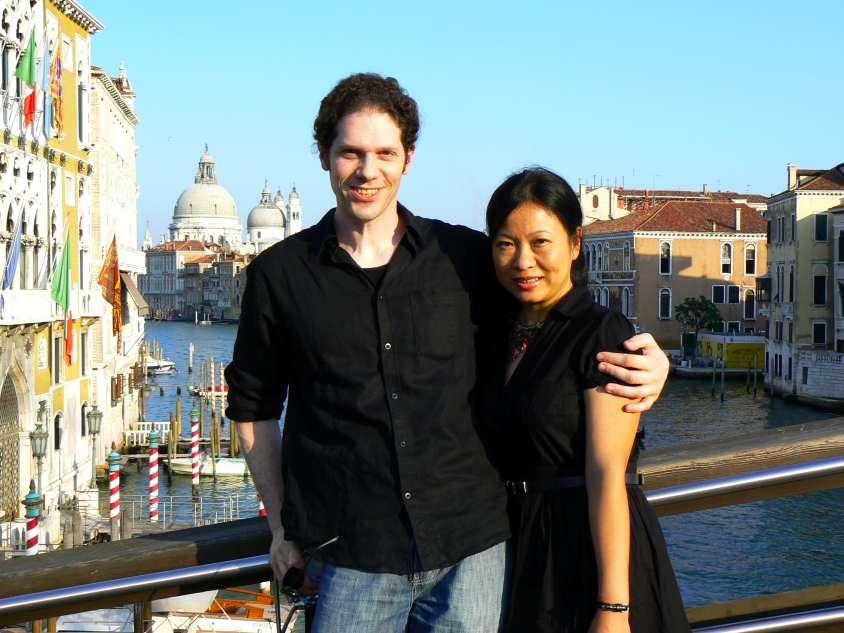
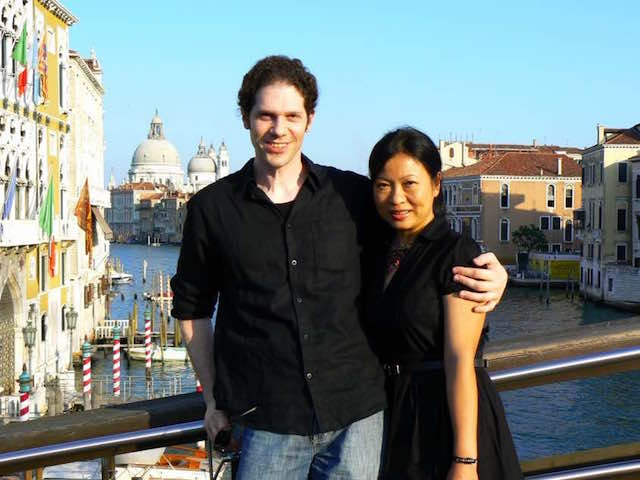
broken photo links

diff --git a/Travel.html b/Travel.html
@@ -73,11 +73,16 @@
 </nav>
 
 
+<!-- <div class="row">
+    <div class="col-sm-12 text-left"><img class="img-circle" class="responsive" src="Us in venice.jpg" ></div>
+  </div> -->
+
     <div class="header">
-      <center><img width="450" style="border:10px solid black; padding:15px; box-shadow: 8px 8px 4px #AAA" class="img-circle" class="responsive" src="Us in venice.jpg"></center>
+      <center><img width="800" style="border:10px solid black; padding:15px; box-shadow: 8px 8px 4px #AAA" class="img-circle" class="responsive" src="Us in venice.JPG"></center>
       <font color="#0058b4">
       <h1>Our Travels</h1>
         <font color="black">
+
       <h2><i>Bella Italia! 2007</i></h2>
       <p> Useful links </p>
       <ul>

diff --git a/index.html b/index.html
@@ -27,7 +27,7 @@
         <span class="icon-bar"></span>
         <span class="icon-bar"></span>
       </button>
-      <a class="navbar-brand" href="http://www.asarconti.com/about/" target="blank">My favorite artist</a>
+      <a class="navbar-brand" href="http://www.asarconti.com/about/" target="blank">My favorite artist</a>    
     </div>
 
     <!-- Collect the nav links, forms, and other content for toggling -->
